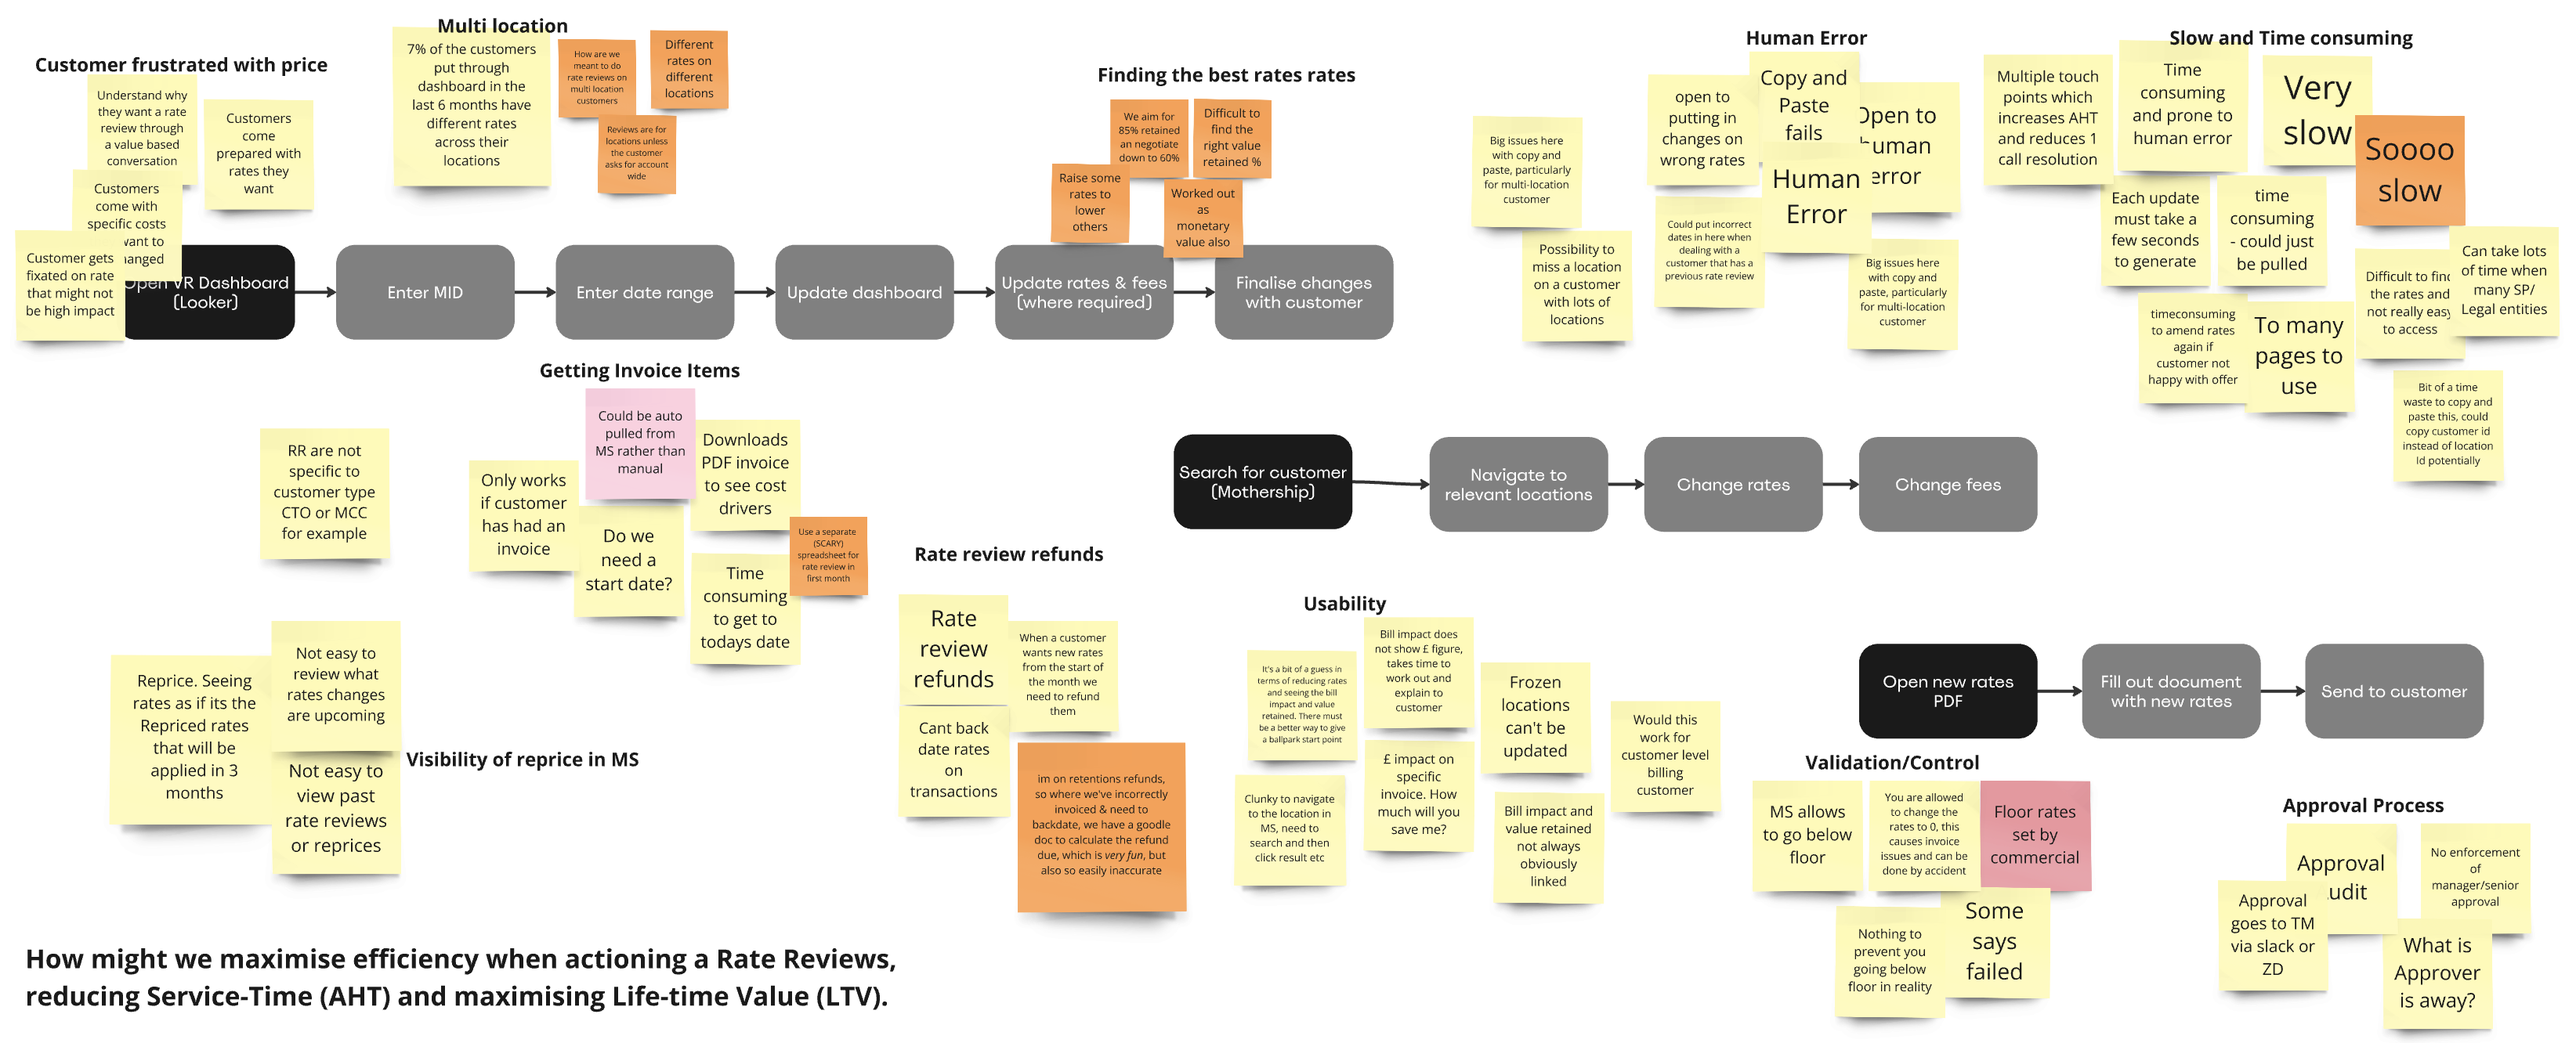
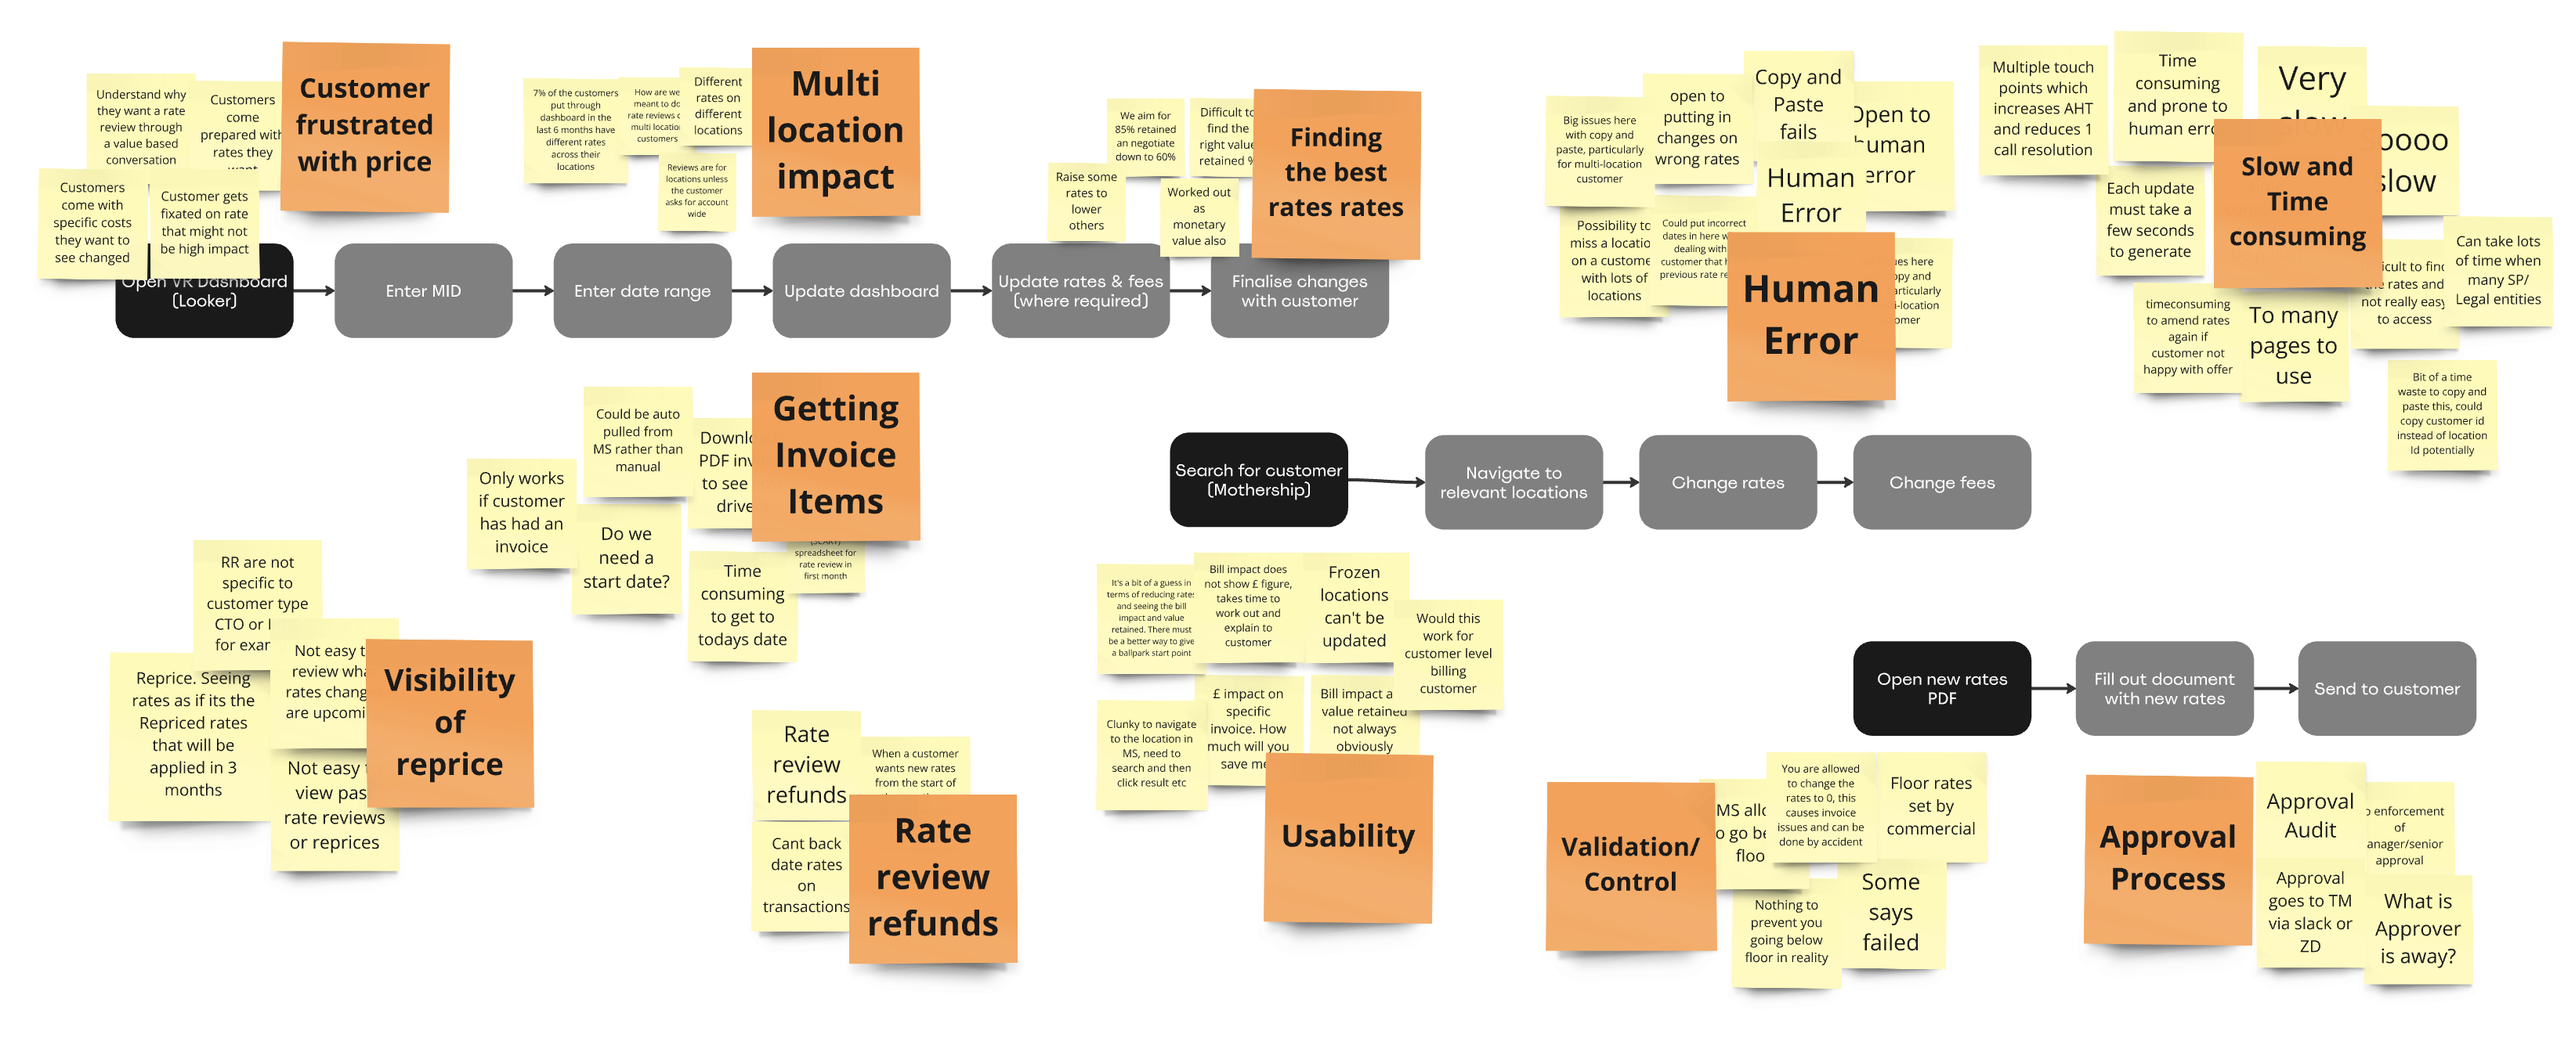
update

diff --git a/dojo.html b/dojo.html
@@ -52,8 +52,10 @@
             <div class="post">
                 <article class="post-content">
                     <h1 id="">Improving support experience</h1>
-                    <h3>At Dojo, my product team is dedicated to enhancing the efficiency and experience of customer support. This particular project focused on addressing challenges faced when customers contacted Dojo to dispute invoice amounts and request lower rates.</h3>
-                    <blockquote> As a result of this work, we won <a href="https://www.linkedin.com/posts/dojo-tech_customerservice-lifeatdojo-awards-activity-7267576580657364993-IBqc?utm_source=share&utm_medium=member_desktop" target="_blank">Gold at the European Contact Centre & Customer Service Awards (ECCCSA)</a> for the <strong>Greatest Impact of AI!</strong> 🎉</blockquote>
+                    <h3>Developing a tool within our internal web platform to streamline how customer service agents (CSAs) handle customer requests for their rates to be lowered.</h3>
+                    <blockquote> 
+                        <strong>Impact summary</strong> <br/>
+                        The streamlined rate review process resulted in a <strong>33% (14mins)</strong> reduction in call time. Feedback from CSAs indicated that the new workflow improved confidence and efficiency, reflected in the <strong>+80 eNPS score.</strong> We won <a href="https://www.linkedin.com/posts/dojo-tech_customerservice-lifeatdojo-awards-activity-7267576580657364993-IBqc?utm_source=share&utm_medium=member_desktop" target="_blank">Gold at the European Contact Centre & Customer Service Awards (ECCCSA)</a> for the <strong>Greatest Impact of AI!</strong> 🎉</blockquote>
                     <div class="img-bg">
                         <div class="img-detail-2">
                         <img src="images/rate1.png" />
@@ -63,22 +65,25 @@
                     </div>
                     </div>
                     <h2 id="overview">Problem space</h2>
-                    <p>The existing rate review process was highly manual and time-intensive. On average, customer service agents (CSAs) spent approximately 43 minutes on the phone navigating multiple spreadsheets to complete a rate review with a customer. This constituted 18% of all customer contact at Dojo.</p>
+                    <p>The existing rate review process was highly manual and time-intensive. On average, customer service agents (CSAs) spent approximately <strong>43 minutes on the phone, navigating multiple spreadsheets</strong> to complete a rate review with a customer. This constituted 18% of all customer contact at Dojo.</p>
                     <blockquote>Customer frustrations about long phone times were consistently highlighted during discovery interviews with customer service agents (CSAs), further emphasising the need for improvement.</blockquote>
                     <div style="width: 90vw;margin-left: -45vw;" class="img-bg">
-                            <img alt="Typical user journey of a CSA when completing a rate review on the phone with a customer" style="box-shadow: none;" src="images/blueprint.png" />
+                            <img alt="Typical user journey of a CSA when completing a rate review on the phone with a customer" style="box-shadow: none;" src="images/blueprint.png" /> 
                     </div>
-                    <h2 id="">Building empthany</h2>
-                    <p>Advisor job satisfaction is extremely important to us. We want to ensure the tools they use are streamlined & easy to use so that they instantly feel comfortable when on the phone with customers. This helps them serve our customers quickly & efficiently. To achieve this, my squad runs a continuous discovery initiative in the support center, dedicating time each week to one-on-one and group sessions with CSAs to uncover problems and test ideas. </p>
+                    <p><strong>The service blueprint exercise highlighted</strong> the friction created when advisors were navigating many systems trying to provide the customer with better rates.</p>
+                    
+                    <h2 id="">Building empathy</h2>
+                    <p>Advisor job satisfaction is extremely important to us. We want to ensure the tools they use are streamlined & easy to use so that they instantly <strong>feel comfortable when on the phone with customers.</strong> This helps them serve our customers quickly & efficiently. To achieve this, we run a continuous discovery initiative in the support center, dedicating time each week to one-on-one and group sessions with CSAs to uncover problems and test ideas.</p>
                     <h2 id="">Discovery & focus areas</h2>
-                    <p>We began with a kickoff discovery workshop involving stakeholders from customer service, product, and engineering. I used insights from initial discovery interviews to map out the processes involved with completing a rate review and asked participants to note down any pain points they had. I then grouped these into themed painpoints and plotted them on the user journey maps.</p>
+                    <p>We began with a kickoff discovery workshop involving stakeholders from customer service, product, and engineering. I used insights from initial discovery interviews to map out the processes involved with completing a rate review, asking participants to note down any pain points they had framed by a How Might We statement.</p>
+                    <p><strong>How might we maximise efficiency when actioning a Rate Reviews, reducing Service-Time (AHT) and maximising Life-time Value (LTV).</strong></p>
                     <div style="width: 90vw;margin-left: -45vw;" class="img-bg">
                             <img alt="User flow with post it notes as a result of workshop exercise with product, customer service and engineering. Post it notes highliht, slow process, usability, validation, approval and customer frustration as key areas." style="box-shadow: none;" src="images/workshop.png" />
                     </div>
                     <p>Insights from this workshop, combined with further discovery and call data analysis, helped us prioritise focus areas in the rate review process. We identified two main areas for improvement:</p>
-                    <div class="row"> <strong>Finding the best rates:</strong> The process of determining optimal rates for both customers and the business was cumbersome and inefficient. Advisors had to navigate multiple spreadsheets/systems, which added unnecessary complexity and negatively impacted the user experience. Our <strong>Hypothesis</strong> was that if we can simplify the the process of reviewing a customers rates, we'll reduce call time and improve eNPS.
+                    <div class="row"> <strong>Finding the best rates:</strong> The process of determining optimal rates for both customers and the business was cumbersome and inefficient. Advisors had to navigate multiple spreadsheets/systems, which added unnecessary complexity and negatively impacted the user experience. <br/><strong>Our hypothesis</strong> was that if we can simplify the the process of reviewing a customers rates, we'll reduce call time and improve eNPS.
                     </div>
-                    <div class="row"> <strong>Note taking after the call:</strong> Advisors spent, on average, 45% of their time manually summarising calls. This resulted in inconsistent notes, ranging from extensive detail to minimal information and confusion and inefficiency in understanding prior interactions. Our <strong>Hypothesis</strong> was that if we can simplify the process of manually taking notes, we'd reduce the overall handling time of tickets 
+                    <div class="row"> <strong>Note taking after the call:</strong> Advisors spent, on average, 45% of their time manually summarising calls. This resulted in inconsistent notes, ranging from extensive detail to minimal information and confusion and inefficiency in understanding prior interactions.<br/><strong>Our Hypothesis</strong> was that if we can simplify the process of manually taking notes, we'd reduce the overall handling time of tickets 
                     </div>
                     <h2>Early iterations</h2>
                     <p>Once we gathered the requirements for the data to be displayed, I experimented with various page layouts and table designs to present the datasets effectively. Our key design principle was to ensure users could quickly understand the data, enabling them to make timely rate amendment recommendations to the customer. To help achieve this, we focused on simplifying information hierarchy, reducing cognitive load with pre-populated rate options, and surfacing key data at a glance.</p>
